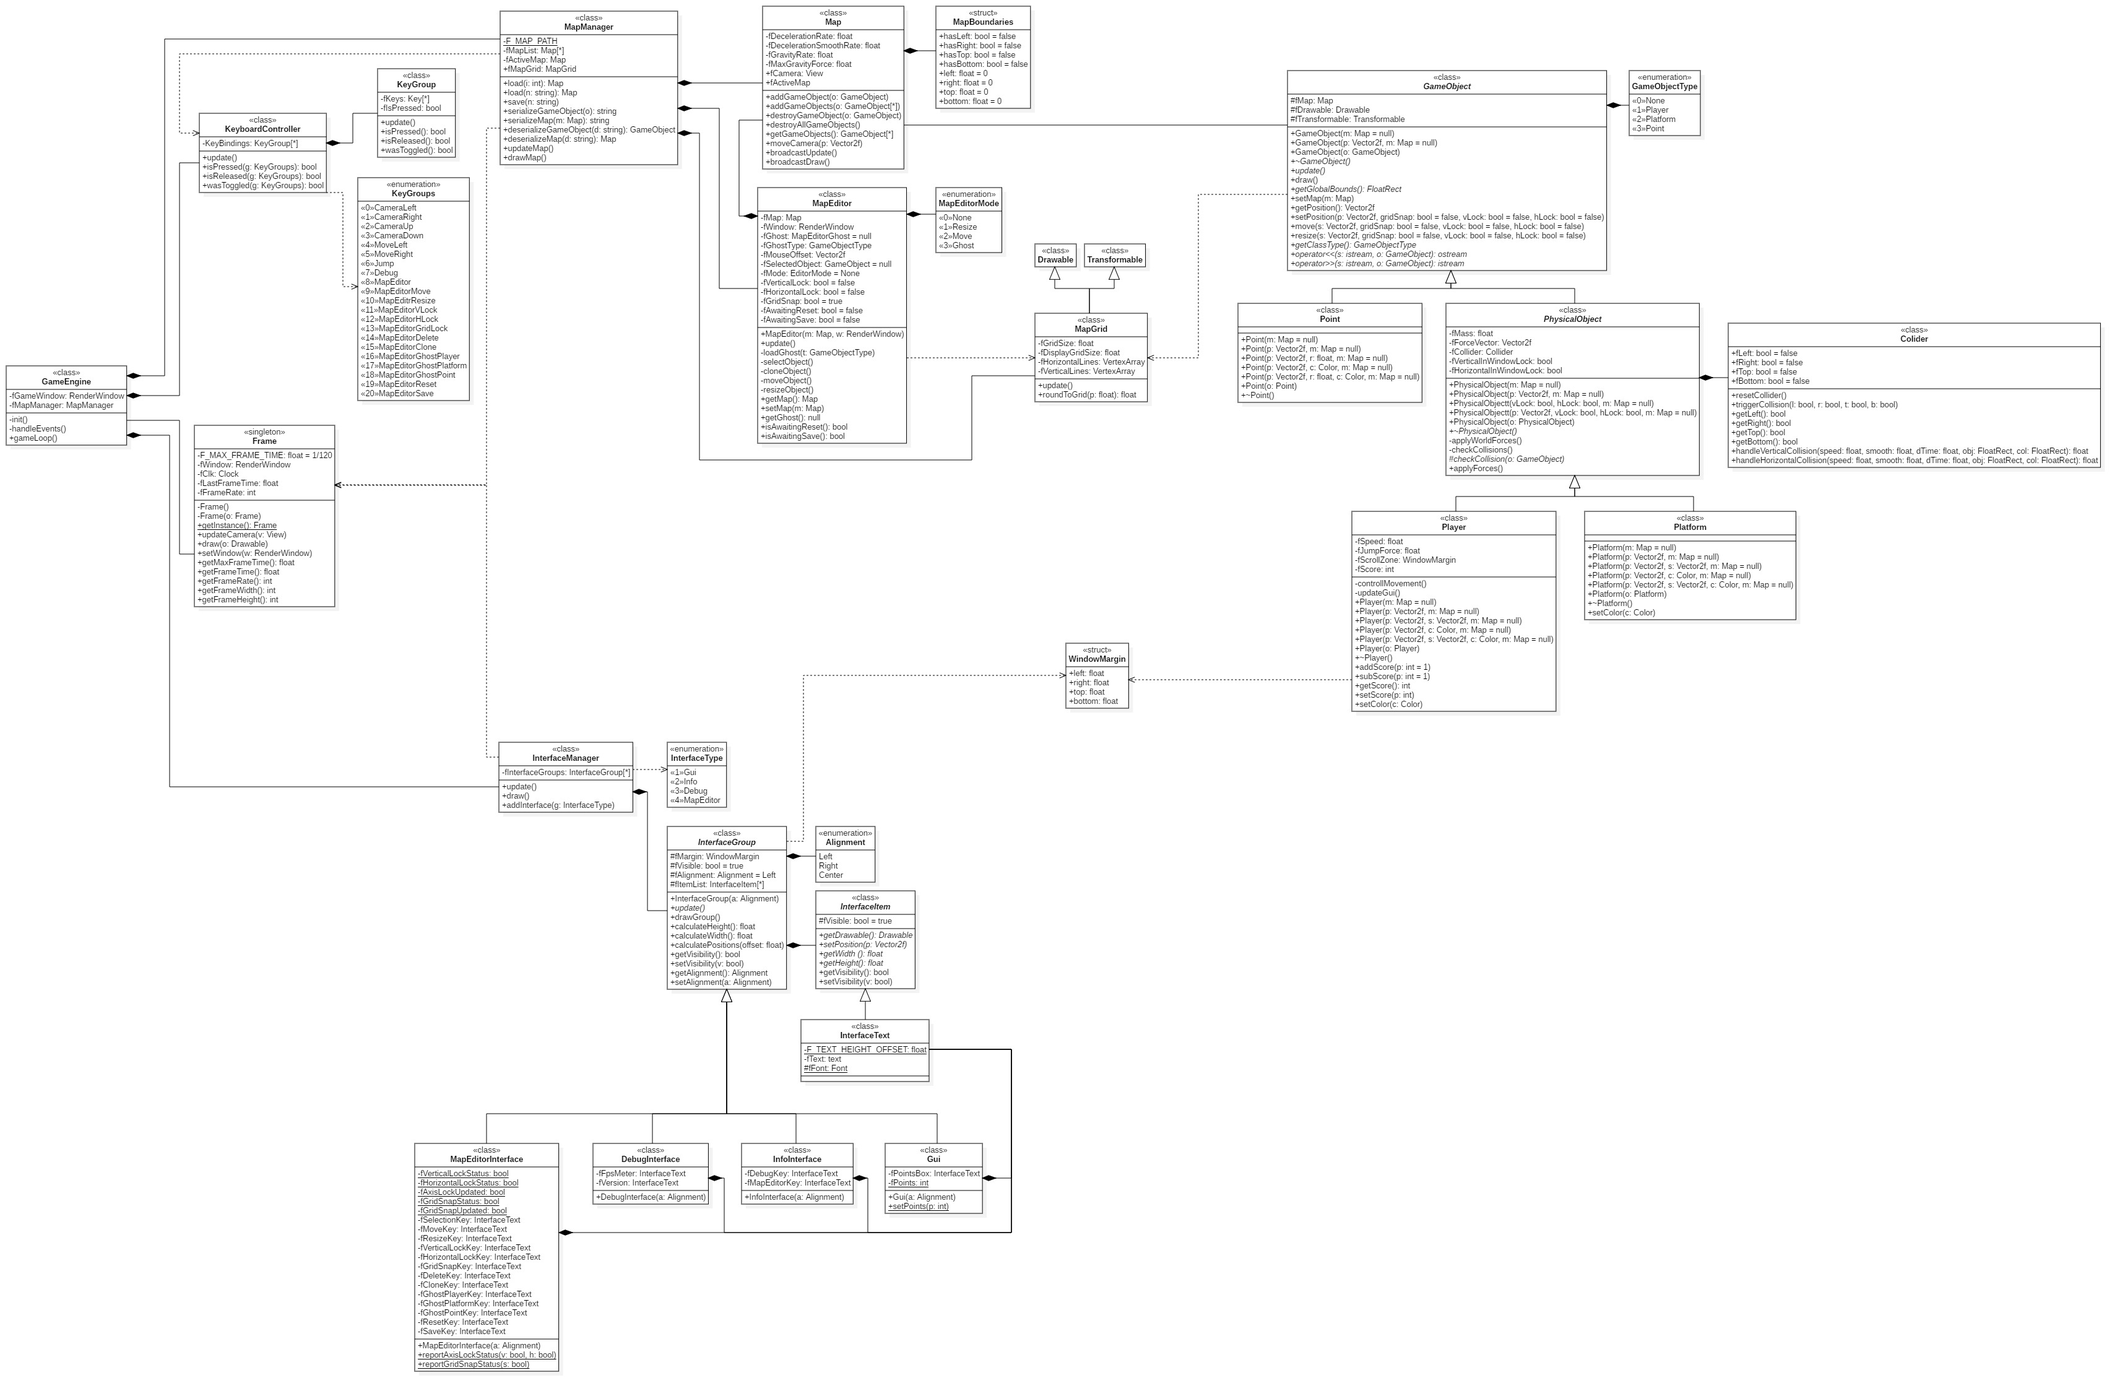
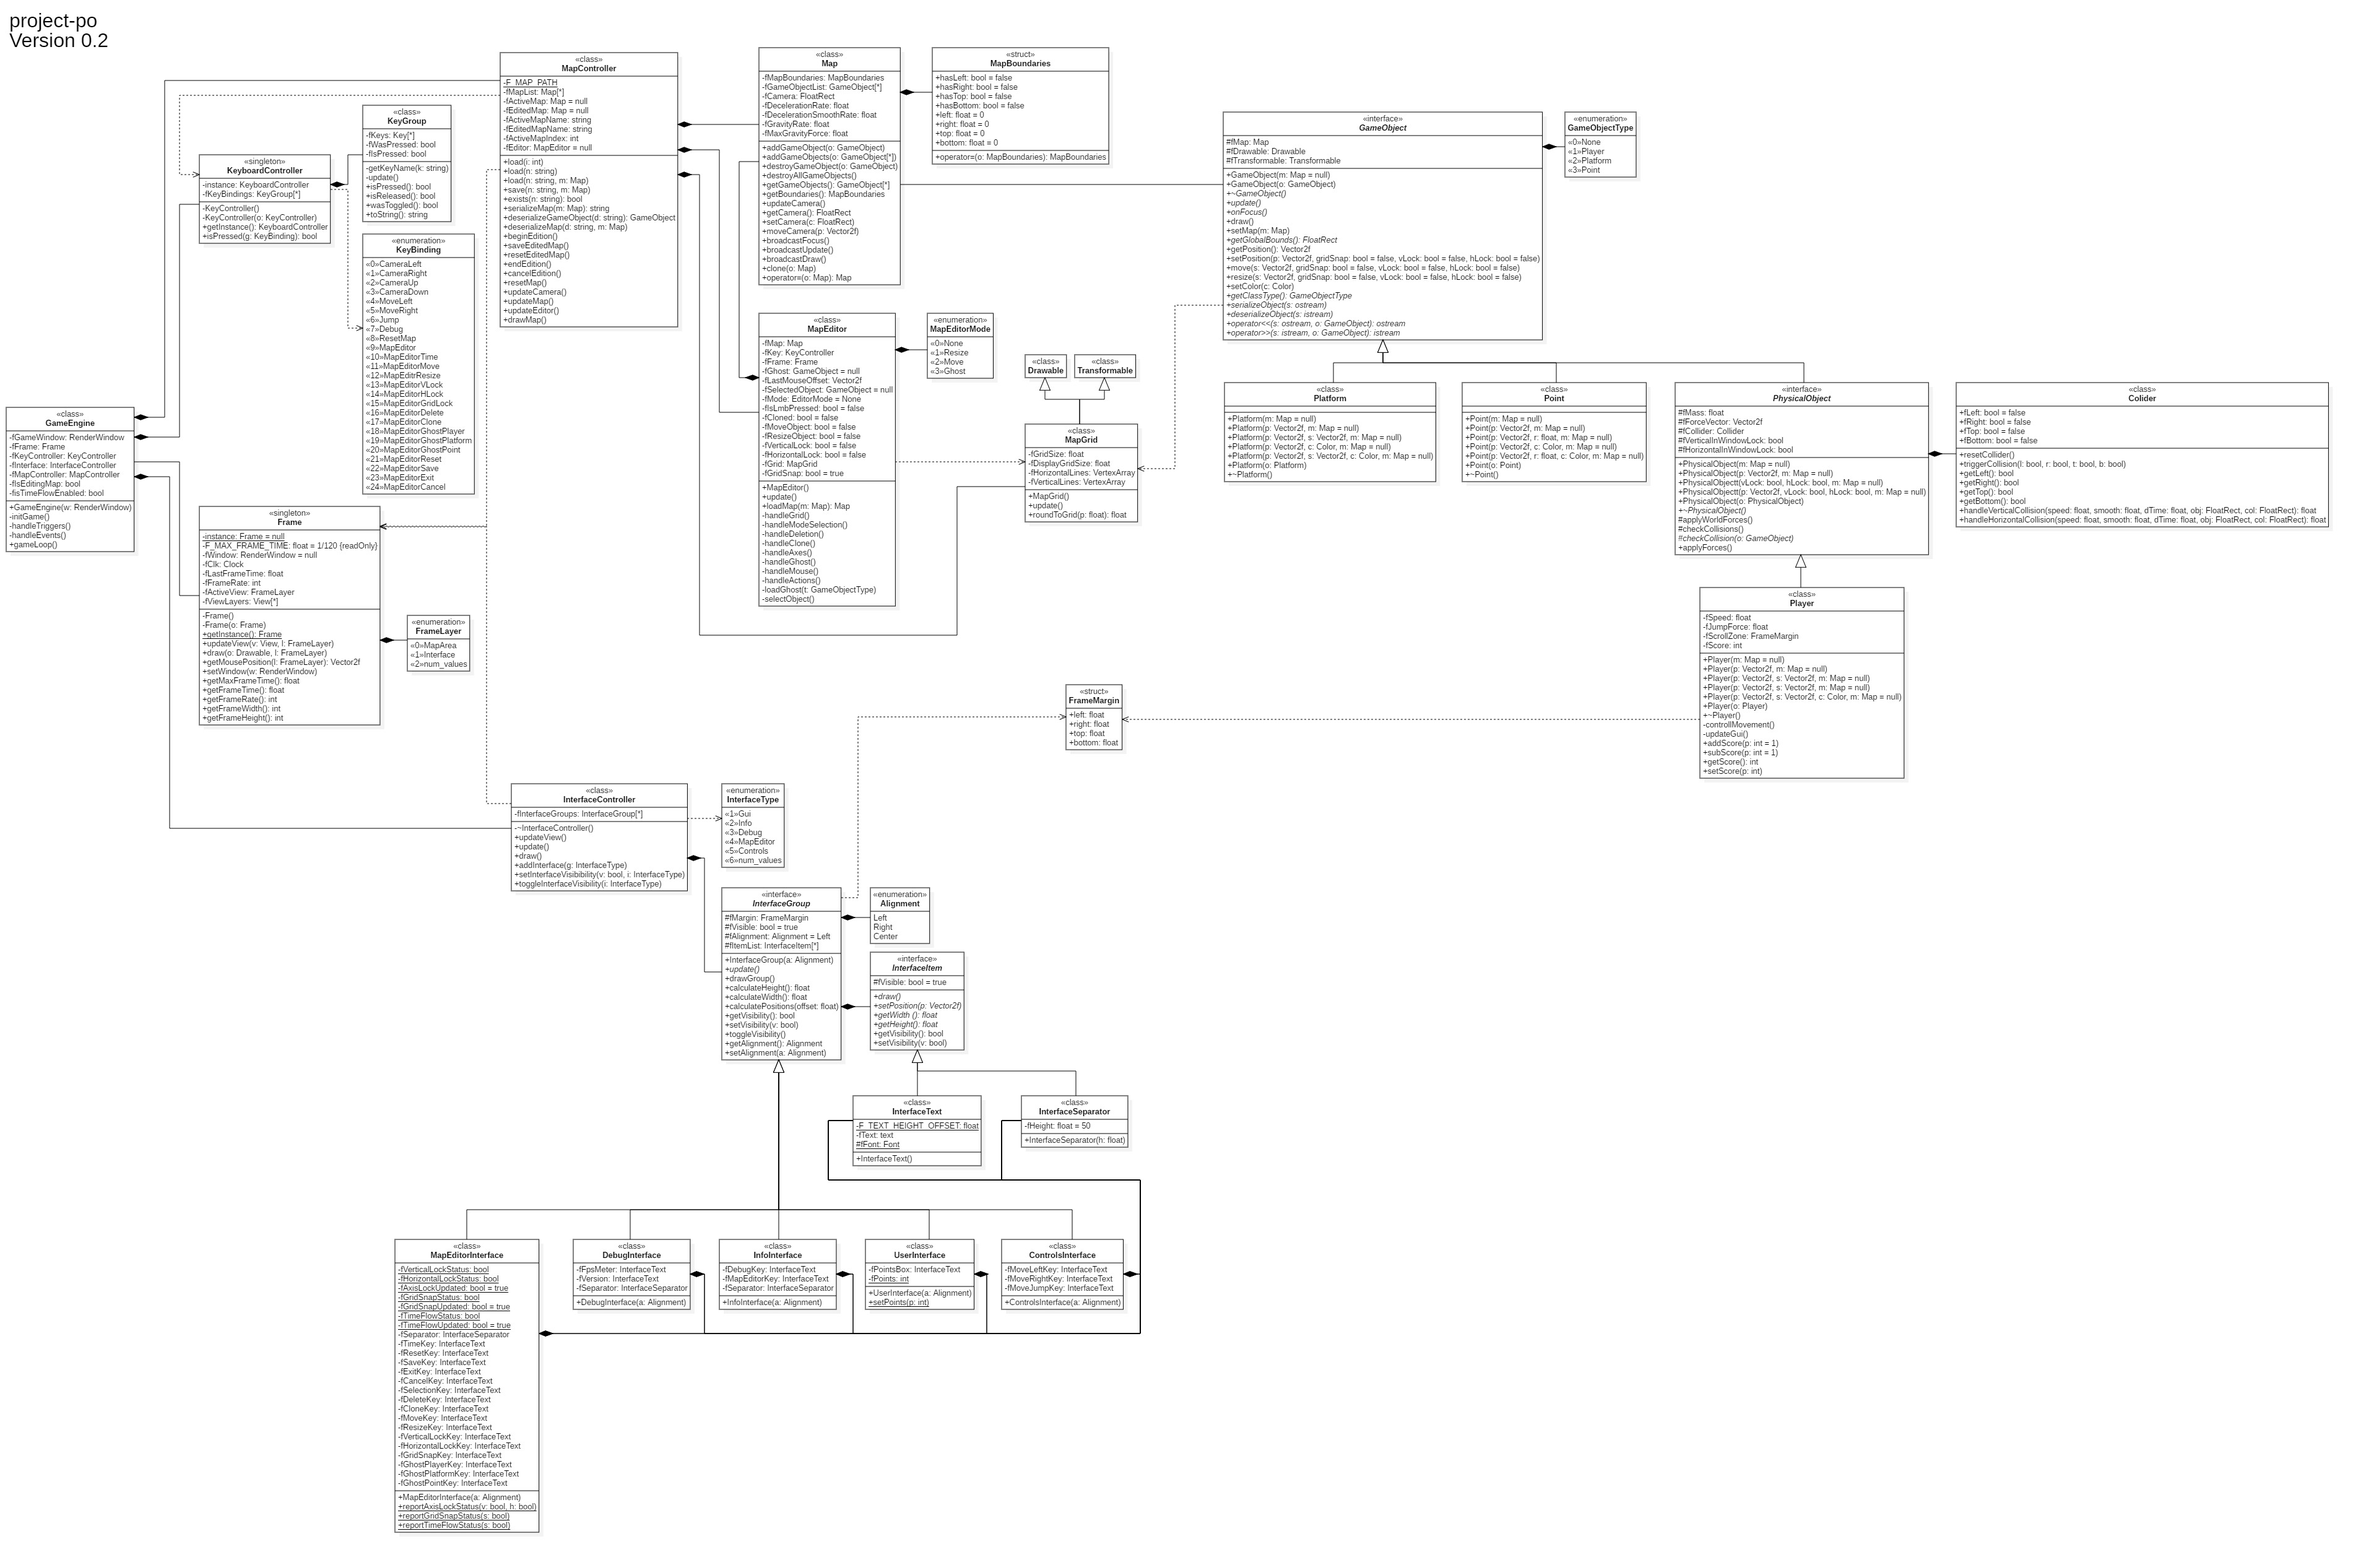
Updated uml

diff --git a/src/World/GameEngine.cpp b/src/World/GameEngine.cpp
@@ -84,7 +84,7 @@ void GameEngine::handleTriggers()
 			fTimeFlowEnabled = true;
 			fInterface.setInterfaceVisibility(fIsEditingMap, InterfaceType::MapEditor);
 			fInterface.setInterfaceVisibility(true, InterfaceType::Info);
-			fMapController.stopEditing();
+			fMapController.endEdition();
 		}
 
 		if (fKeyController.getKeyGroup(KeyBinding::MapEditorCancel).wasToggled() && fKeyController.getKeyGroup(KeyBinding::MapEditorCancel).isPressed())
@@ -93,7 +93,7 @@ void GameEngine::handleTriggers()
 			fTimeFlowEnabled = true;
 			fInterface.setInterfaceVisibility(fIsEditingMap, InterfaceType::MapEditor);
 			fInterface.setInterfaceVisibility(true, InterfaceType::Info);
-			fMapController.cancelEditing();
+			fMapController.cancelEdition();
 		}
 	}
 	else 
@@ -110,7 +110,7 @@ void GameEngine::handleTriggers()
 			MapEditorInterface::reportTimeFlowStatus(fTimeFlowEnabled);
 			fInterface.setInterfaceVisibility(fIsEditingMap, InterfaceType::MapEditor);
 			fInterface.setInterfaceVisibility(false, InterfaceType::Info);
-			fMapController.startEditing();
+			fMapController.beginEdition();
 		}
 	}
 }

diff --git a/src/World/MapController/Maps/MapGrid.cpp b/src/World/MapController/Maps/MapGrid.cpp
@@ -4,11 +4,6 @@ int MapGrid::fGridSize = 5;
 int MapGrid::fDisplayGridSize = 2*fGridSize;
 
 
-int MapGrid::roundToGrid(float pos) {
-	int mod = int(pos) % fGridSize;
-	return pos - mod + fGridSize * ((int)(2 * mod / fGridSize));
-}
-
 MapGrid::MapGrid(){
 
 }
@@ -60,23 +55,7 @@ void MapGrid::draw(sf::RenderTarget& target, sf::RenderStates states) const
 	target.draw(fVerticalLines, states);
 }
 
-void MapGrid::setOrigin(sf::Vector2f o)
-{
-	while (o.x > fDisplayGridSize) {
-		o.x -= fDisplayGridSize;
-	}
-
-	while (o.x < -fDisplayGridSize) {
-		o.x += fDisplayGridSize;
-	}
-
-	while (o.y > fDisplayGridSize) {
-		o.y -= fDisplayGridSize;
-	}
-
-	while (o.y < -fDisplayGridSize) {
-		o.y += fDisplayGridSize;
-	}
-
-	Transformable::setOrigin(o);
+float MapGrid::roundToGrid(float pos) {
+	int mod = int(pos) % fGridSize;
+	return pos - mod + fGridSize * ((int)(2 * mod / fGridSize));
 }

diff --git a/src/World/MapController/GameObjects/Platform.h b/src/World/MapController/GameObjects/Platform.h
@@ -9,6 +9,7 @@ class Platform : public GameObject
 public:
 	explicit Platform(Map * map = nullptr);
 	Platform(const sf::Vector2f & position, Map * map = nullptr);
+	Platform(const sf::Vector2f& position, const sf::Color& color, Map* map = nullptr);
 	Platform(const sf::Vector2f & position, const sf::Vector2f & size, Map * map = nullptr);
 	Platform(const sf::Vector2f & position, const sf::Vector2f & size, const sf::Color & color, Map * map = nullptr);
 	Platform(const Platform & obj);
@@ -16,7 +17,6 @@ public:
 
 	void update();
 	void onFocus();
-	void handleCollision(GameObject * collider);
 	sf::FloatRect getGlobalBounds() const;
 	void resize(const sf::Vector2f & p, bool gridSnap = false, bool vLock = false, bool hLock = false);
 	void setColor(const sf::Color & c);

diff --git a/src/World/MapController/MapController.cpp b/src/World/MapController/MapController.cpp
@@ -138,7 +138,7 @@ void MapController::deserializeMap(const std::string & s, Map * map)
 	}
 }
 
-void MapController::startEditing()
+void MapController::beginEdition()
 {
 	fEditedMap = fActiveMap;
 	fEditedMapName = fActiveMapName;
@@ -172,7 +172,7 @@ void MapController::resetEditedMap()
 	fActiveMap->broadcastFocus();
 }
 
-void MapController::stopEditing()
+void MapController::endEdition()
 {
 	if (fEditor == nullptr)
 		return;
@@ -188,7 +188,7 @@ void MapController::stopEditing()
 	fEditor = nullptr;
 }
 
-void MapController::cancelEditing()
+void MapController::cancelEdition()
 {
 	if (fEditor == nullptr)
 		return;

diff --git a/src/World/MapController/GameObjects/Platform.cpp b/src/World/MapController/GameObjects/Platform.cpp
@@ -8,6 +8,10 @@ Platform::Platform(const sf::Vector2f & position, Map * map) : Platform(position
 {
 }
 
+Platform::Platform(const sf::Vector2f& position, const sf::Color& color, Map* map) : Platform(position, PLATFORM_SIZE, color, map)
+{
+}
+
 Platform::Platform(const sf::Vector2f & position, const sf::Vector2f & size, Map * map) : Platform(position, size, PLATFORM_COLOR, map)
 {
 }

diff --git a/src/World/MapController/MapController.h b/src/World/MapController/MapController.h
@@ -63,11 +63,11 @@ public:
 	GameObject * deserializeGameObject(const std::string s);
 	void deserializeMap(const std::string & s, Map * map);
 
-	void startEditing();
+	void beginEdition();
 	void saveEditedMap();
 	void resetEditedMap();
-	void stopEditing();
-	void cancelEditing();
+	void endEdition();
+	void cancelEdition();
 
 	void resetMap();
 

diff --git a/src/GameConstants.h b/src/GameConstants.h
@@ -1,7 +1,7 @@
 #pragma once
 #include <string>
 #include <SFML/Config.hpp>
-const std::string GAME_VERSION = "0.1"; 
+const std::string GAME_VERSION = "0.2"; 
 
 const char SERIALIZABLE_OBJECT_DELIMITER = '\n';
 const char SERIALIZABLE_FIELD_DELIMITER = ' ';

diff --git a/src/World/InterfaceController/InterfaceGroups/UserInterface.h b/src/World/InterfaceController/InterfaceGroups/UserInterface.h
@@ -8,7 +8,7 @@ class UserInterface : public InterfaceGroup {
 	static int fPoints;
 
 public:
-	explicit UserInterface(const Alignment & a = Alignment::Left);
+	explicit UserInterface(const Alignment & a);
 	void update();
 
 	static void setPoints(int p);

diff --git a/src/World/MapController/Maps/MapGrid.h b/src/World/MapController/Maps/MapGrid.h
@@ -31,6 +31,5 @@ public:
 
 		y = x - r + (r / (0.5q))
 	*/
-	static int roundToGrid(float pos);
-	virtual void setOrigin(sf::Vector2f o);
+	static float roundToGrid(float pos);
 };
